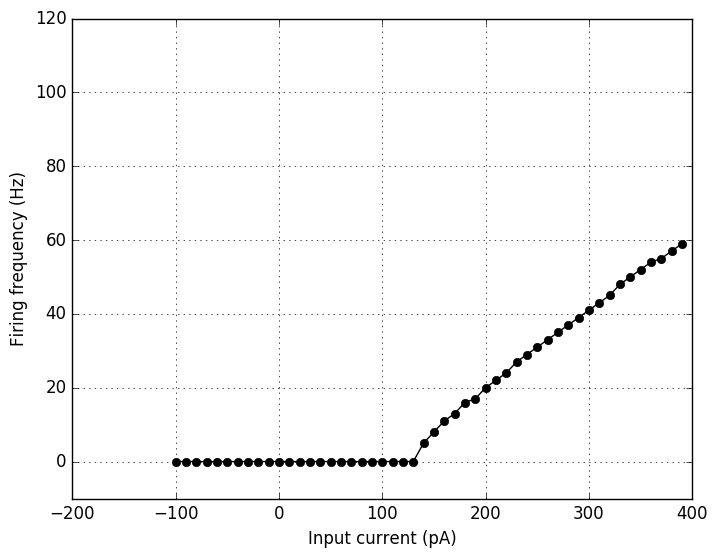
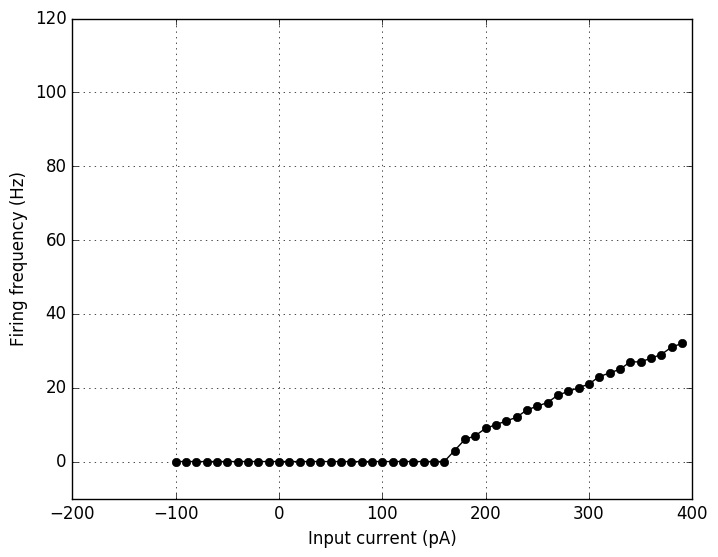
Some updates & one retunes cell

diff --git a/CellTypesDatabase/models/download.py b/CellTypesDatabase/models/download.py
@@ -1,25 +1,100 @@
-from allensdk.api.queries.biophysical_perisomatic_api import BiophysicalPerisomaticApi
-    
-neuronal_model_ids = [472300877, 472363762, 472442377, 473561660, 473863035, 473561729, 472421285, 472301074, \
-                      473872986, 472306616, 329321704, 472912107, 472352327, 471085845, 472912177, 472304676, \
-                      473860269, 472447460, 472427533, 472304539, 473465774, 472430904, 473862845, 472450023, \
-                      473862496, 473863578, 473871773, 329322394, 472299363, 472455509, 472349114, 471081668, \
-                      472451419, 471087975, 472424854, 473863510, 473871592, 472299294, 473835796, 473871429, \
-                      473465456, 472306460, 472440759, 472434498, 472915634, 472306544, 473862421, 471086533, \
-                      473834758]
-                      
-#neuronal_model_ids = [472451419]
+from allensdk.api.queries.biophysical_api import BiophysicalApi
 
-print("---- Downloading %i cell models..."%len(neuronal_model_ids))
+from allensdk.api.queries.cell_types_api import CellTypesApi
+import sys
+
+import pprint
+pp = pprint.PrettyPrinter(indent=4)
     
-for neuronal_model_id in neuronal_model_ids:
-    print("---- Downloading cell model: %s..."%neuronal_model_id)
-    try:
+def download():
+    neuronal_model_ids = ['478047737', '472430904', '479234506', '478513451', '472352327', '478043748', '480633088', '478513443', '489931963', '478513224', 
+                          '478047816', '480632594', '472440759', '485694403', '478513459', '471081668', '477840124', '479234530', '473835796', '329322394', 
+                          '486557284', '479234670', '478513445', '472306616', '486509010', '478045347', '486509232', '480051220', '485611914', '480631402', 
+                          '472451419', '483108201', '496930338', '482525264', '479427516', '488461970', '477876583', '479427369', '472306544', '478810017', 
+                          '482657381', '478513187', '486511108', '479694721', '476630478', '486052412', '482655070', '472306460', '472442377', '478513396', 
+                          '482525598', '476637699', '487245869', '485510685', '478513398', '477494382', '482657528', '478513461', '485507735', '478513411', 
+                          '480629276', '473863510', '485591806', '488462820', '472447460', '480633809', '476637723', '478047588', '482524837', '477839613', 
+                          '478809991', '486556597', '480624051', '473465456', '472300877', '476679102', '480630211', '480633479', '480631048', '479427443', 
+                          '478045081', '477313251', '483156585', '329321704', '472299363', '480613522', '482934212', '485591776', '472434498', '472304676', 
+                          '488462783', '489932435', '473863578', '486052435', '486508758', '486556811', '473834758', '477880244', '478047618', '485602029', 
+                          '478513407', '485513184', '472421285', '477510985', '480631286', '491517388', '483066358', '479234441', '488763268', '473872986', 
+                          '488462965', '472455509', '489932597', '480624251', '480056382', '477876559', '478809612', '473863035', '480632564', '473862421', 
+                          '486556714', '485909152', '486508647', '473871773', '471086533', '482529696', '478045202', '489931686', '473465774', '471085845', 
+                          '480624414', '480631187', '480624126', '485476031', '480630857', '473862496', '471087975', '485909125', '472912177', '478513437', 
+                          '477838913', '478045226', '486558444', '478048947', '486909496', '477878284', '476630516', '484628276', '479694359', '485513255', 
+                          '484620556', '479694384', '483106906', '489932183', '485510712', '477510918', '472363762', '473862845', '486144663', '479695152', 
+                          '483109057', '478513415', '482583564', '488759006', '472912107', '485904766', '480630395', '480361288', '485720616', '477878554', 
+                          '476637796', '479694856', '478049069', '476637747', '472450023', '478513441', '472299294']
+
+    neuronal_model_ids = [483108201]
+
+    print("---- Downloading %i cell models..."%len(neuronal_model_ids))
+
+    for neuronal_model_id in neuronal_model_ids:
+        print("---- Downloading cell model: %s..."%neuronal_model_id)
+        try:
+
+            bp = BiophysicalApi('http://api.brain-map.org')
+            bp.cache_stimulus = True # change to False to not download the large stimulus NWB file
+            bp.cache_data(neuronal_model_id, working_directory='%i'%neuronal_model_id)
+        except IndexError:
+            print("Problem!")
+
+
+
+if __name__ == '__main__':
+    
+    
+    test = '-test' in sys.argv
+    
+    if test:
         
-        bp = BiophysicalPerisomaticApi('http://api.brain-map.org')
-        bp.cache_stimulus = False # change to False to not download the large stimulus NWB file
-        bp.cache_data(neuronal_model_id, working_directory='%i'%neuronal_model_id)
-    except IndexError:
-        print("Problem!")
+        dataset_ids = []
+        ct = CellTypesApi()
+        
+        all_cells = ct.list_cells(require_morphology=True, require_reconstruction=True, reporter_status=None)
+        
+        count = 0
+        for cell in all_cells:
+            id = cell['id']
+            print("===============================\nCell %i/%i (%s):"%(count, len(all_cells), id))
+            dataset_ids.append(id)
+            pp.pprint(cell)
+            count+=1
+            
 
+        print("Found %i datasets: %s"%(len(dataset_ids),dataset_ids))
+        
+        all_biophys_models = []
 
+        
+        count = 0
+        for dataset_id in dataset_ids:
+        
+            url = 'http://celltypes.brain-map.org/api/v2/data/Specimen/query.xml?criteria=model::Specimen,rma::criteria,%5Bid$eq' + \
+                  str(dataset_id) + \
+                  '%5D,specimen_types%5Bid$eq305008011%5D,rma::include,donor(transgenic_lines%5Btransgenic_line_type_code$eq%27D%27%5D),structure,cell_soma_locations,ephys_features,ephys_sweeps,ephys_result(well_known_files),neuronal_models(neuronal_model_template,neuronal_model_runs(well_known_files%5Bwell_known_file_type_id$eq481007198%5D))'
+
+            import urllib2
+            xml = urllib2.urlopen(url).read()
+
+            #print xml
+
+            import xml.etree.ElementTree as ET
+
+            root = ET.fromstring(xml)
+
+            print("\n\n Got XML: %s for dataset %s (%i/%i)"%(root.tag, dataset_id,count,len(dataset_id)))
+            for model in root.findall('./specimens/specimen/neuronal-models/neuronal-model'):
+                for child in model:
+                    print child.tag, child.attrib, child.text
+                id = model.find('./id').text
+                name = model.find('./name').text
+                print("===========\n  Model: %s, %s"%(id,name))
+                if 'Biophysical - perisomatic' in name:
+                    print("Has biophysical/perisomatic model!")
+                    all_biophys_models.append(id)
+            count+=1
+                
+        print("Found %i biophysical models: %s"%(len(all_biophys_models),all_biophys_models))
+        

diff --git a/CellTypesDatabase/tune/tuneAllen.py b/CellTypesDatabase/tune/tuneAllen.py
@@ -42,8 +42,8 @@ parameters_hh = ['cell:RS/channelDensity:LeakConductance_all/mS_per_cm2',
               'cell:RS/erev_id:IM_all/mV']
 
 
-max_constraints_hh = [0.1,   -70,  2, 40, 20, 1,    60, -70, -70]
-min_constraints_hh = [0.05, -90, 0.2, 20, 10, 1e-3, 50, -90, -90]
+max_constraints_hh = [0.2,   -60,  4,  80, 30, 5,    60, -70, -70]
+min_constraints_hh = [0.01, -100, 0.2, 10, 1, 1e-3, 50, -90, -90]
 
 
 #  typical (tuned) spiking cell
@@ -403,9 +403,9 @@ if __name__ == '__main__':
         print("Running 2 stage optimisation")
         simulator  = 'jNeuroML_NEURON'
         dataset = 471141261
-        dataset = 464198958
         dataset = 325941643
         dataset = 479704527
+        dataset = 464198958
         type = 'Izh'
         ref = 'network_%s_%s'%(dataset, type)
 
@@ -420,10 +420,10 @@ if __name__ == '__main__':
         
         sweep_numbers, weights_1, target_data_1, weights_2, target_data_2 = get_2stage_target_values(dataset)
 
-        scale1 = .2
-        scale2 = .2
-        mutation_rate = 0.9,
-        num_elites = 5,
+        scale1 = 2
+        scale2 = 2
+        mutation_rate = 0.1,
+        num_elites = scale(scale2,8,2),
         seed = 1234,
 
         
@@ -457,16 +457,13 @@ if __name__ == '__main__':
                                 show_plot_already = True,
                                 seed = seed,
                                 known_target_values = {},
-                                dry_run = False)
+                                dry_run = False,
+                                num_parallel_evaluations = 10)
         
-                                
-        compare('%s/%s.Pop0.v.dat'%(r1['run_directory'], r1['reference']), show_plot_already=False)
-        '''
-        r2={}
-        r2['run_directory'] ='NT_AllenIzh2stage_STAGE2_Tue_Dec__1_17.26.38_2015'
-        r2['reference'] = 'AllenIzh2stage_STAGE2'  '''
-        
-        compare('%s/%s.Pop0.v.dat'%(r2['run_directory'], r2['reference']), show_plot_already=True, dataset=dataset)
+                         
+        if not nogui:       
+            compare('%s/%s.Pop0.v.dat'%(r1['run_directory'], r1['reference']), show_plot_already=False)
+            compare('%s/%s.Pop0.v.dat'%(r2['run_directory'], r2['reference']), show_plot_already=True, dataset=dataset)
         
         final_network = '%s/%s.net.nml'%(r2['run_directory'], ref)
         
@@ -524,30 +521,29 @@ if __name__ == '__main__':
         print("Running 2 stage hh optimisation")
         simulator  = 'jNeuroML_NEURON'
         dataset = 471141261
+        dataset = 479704527
         dataset = 464198958
         dataset = 325941643
-        dataset = 479704527
         type = 'HH'
         ref = 'network_%s_%s'%(dataset, type)
 
 
-        max_constraints_1 = [0.1,   -70,  2,   0, 0, 0, 55, -80, -80]
+        max_constraints_1 = [1,   -50,  5,   0, 0, 0, 55, -80, -80]
         min_constraints_1 = [0.001, -100, 0.2, 0, 0, 0, 55, -80, -80]
 
         # For a quick test...
         # max_constraints_1 = [0.1,   -77.9, 0.51,   0, 0, 0, 55, -80, -80]
         # min_constraints_1 = [0.09,  -77.8, 0.52,   0, 0, 0, 55, -80, -80]
 
-        max_constraints_2 = ['x',   'x',   'x',    100,  25,   4,    60, -70,  -70]
-        min_constraints_2 = ['x',   'x',   'x',    20,   1,    1e-6, 50, -100, -100]
+        max_constraints_2 = ['x',   'x',   'x',    100,  35,   5,    60, -70,  -70]
+        min_constraints_2 = ['x',   'x',   'x',    10,   1,    1e-6, 50, -100, -100]
 
-        sweep_numbers, weights_1, target_data_1, weights_2, target_data_2 = get_2stage_target_values(471141261)
+        sweep_numbers, weights_1, target_data_1, weights_2, target_data_2 = get_2stage_target_values(dataset)
 
-        scale1 = .1
-        scale2 = .2
-        mutation_rate = 0.9,
-        num_elites = 5,
-        seed = 1234,
+        scale1 = 3
+        scale2 = 3
+        mutation_rate = 0.1,
+        seed = 1234678,
 
         r1, r2 = run_2stage_optimization('Allen2stage',
                                 neuroml_file = 'prototypes/RS/%s.net.nml'%ref,
@@ -563,7 +559,7 @@ if __name__ == '__main__':
                                 target_data_1 = target_data_1,
                                 target_data_2 = target_data_2,
                                 sim_time = 1500,
-                                dt = 0.05,
+                                dt = 0.01,
                                 population_size_1 = scale(scale1,100,10),
                                 population_size_2 = scale(scale2,100,10),
                                 max_evaluations_1 = scale(scale1,500,20),
@@ -573,17 +569,18 @@ if __name__ == '__main__':
                                 num_offspring_1 = scale(scale1,20,5),
                                 num_offspring_2 = scale(scale2,20,5),
                                 mutation_rate = mutation_rate,
-                                num_elites = num_elites,
+                                num_elites = scale(scale2,5,2),
                                 simulator = simulator,
                                 nogui = nogui,
-                                show_plot_already = True,
+                                show_plot_already = False,
                                 seed = seed,
                                 known_target_values = {},
                                 dry_run = False,
-                                num_parallel_evaluations = 2)
-                                
-        compare('%s/%s.Pop0.v.dat'%(r1['run_directory'], r1['reference']))
-        compare('%s/%s.Pop0.v.dat'%(r2['run_directory'], r2['reference']))
+                                num_parallel_evaluations = 10)
+        
+        if not nogui:
+            compare('%s/%s.Pop0.v.dat'%(r1['run_directory'], r1['reference']),show_plot_already=False,dataset=dataset)
+            compare('%s/%s.Pop0.v.dat'%(r2['run_directory'], r2['reference']),dataset=dataset)
         
         
         final_network = '%s/%s.net.nml'%(r2['run_directory'], ref)

diff --git a/CellTypesDatabase/tune/analyse_tuned_cells.py b/CellTypesDatabase/tune/analyse_tuned_cells.py
@@ -20,6 +20,8 @@ def analyse_cell(dataset_id, type, nogui = False):
     
     images = 'summary/%s_%s.png'
     
+    print("====================================\n\n   Analysing cell: %s\n"%(cell_file))
+    
     generate_current_vs_frequency_curve(cell_file, 
                                         reference, 
                                         simulator = 'jNeuroML_NEURON',
